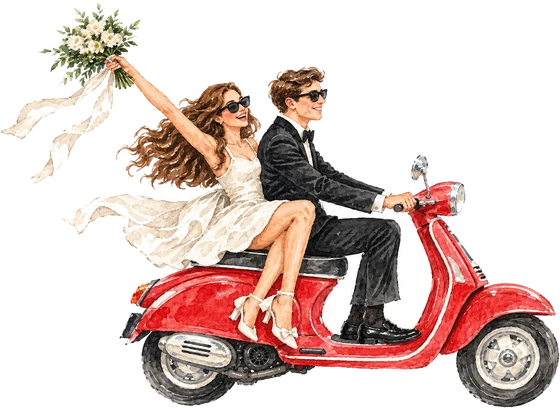
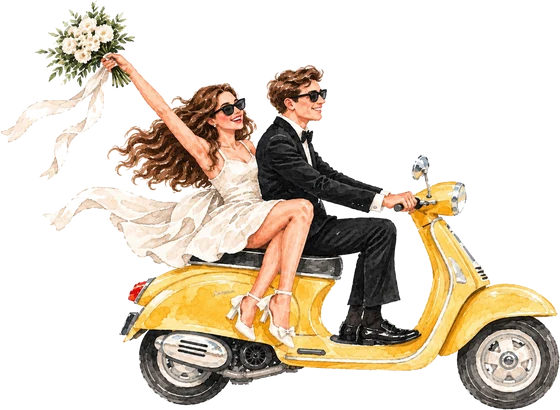
Yellow Vespa
Claude-Session: https://claude.ai/code/session_01UymhP7iFRcx3FYSxcPosG7

diff --git a/index.html b/index.html
@@ -104,7 +104,7 @@
           </div>
         </div>
         <p class="story-note">We know Italy is a long way to come, so we're telling you early. Formal invitation to follow.</p>
-        <div class="story-road"><img class="story-car" src="assets/img/us-vespa.webp" alt="McKenna and Chandler riding a red Vespa, flowers in the air" width="560" height="408" loading="lazy"></div>
+        <div class="story-road"><img class="story-car" src="assets/img/us-vespa.webp" alt="McKenna and Chandler riding a yellow Vespa, flowers in the air" width="560" height="410" loading="lazy"></div>
       </div>
     </section>
 
